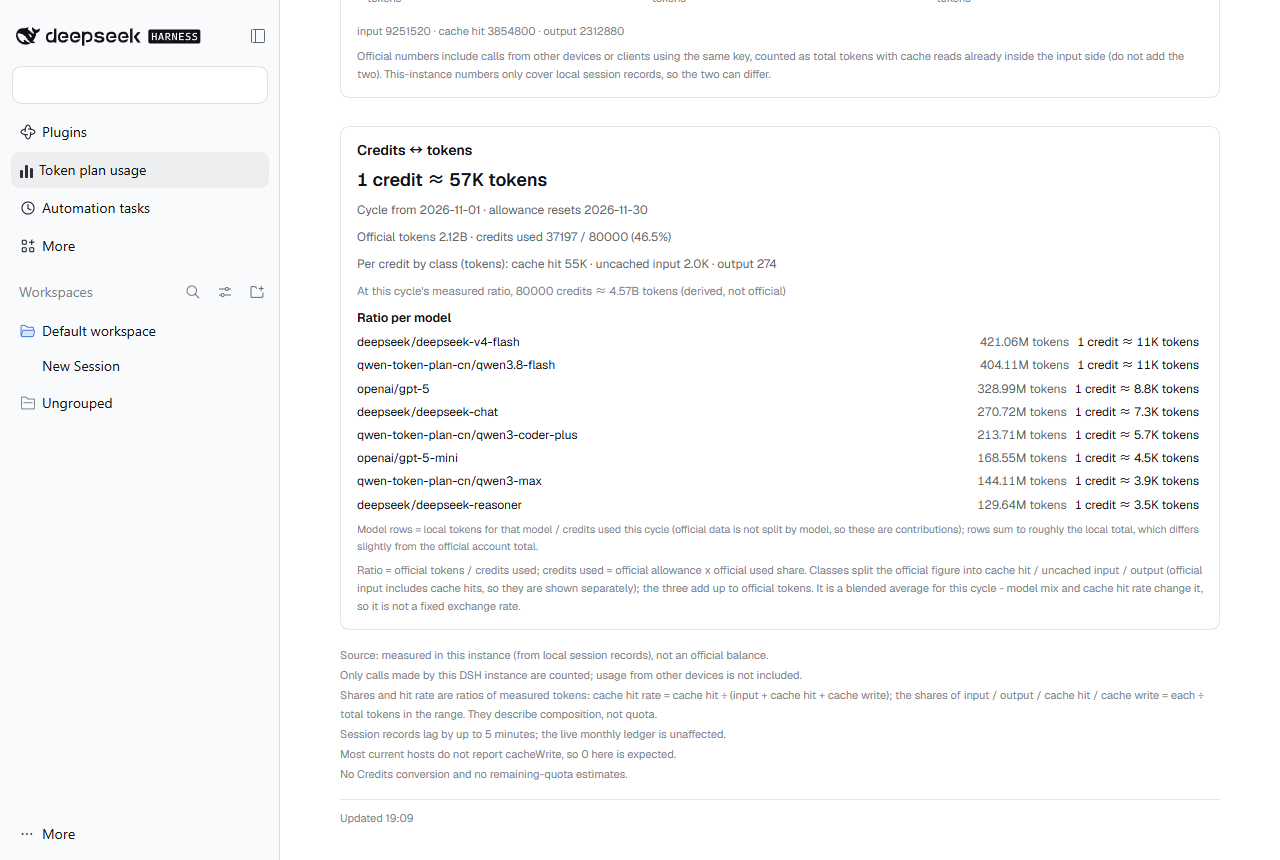
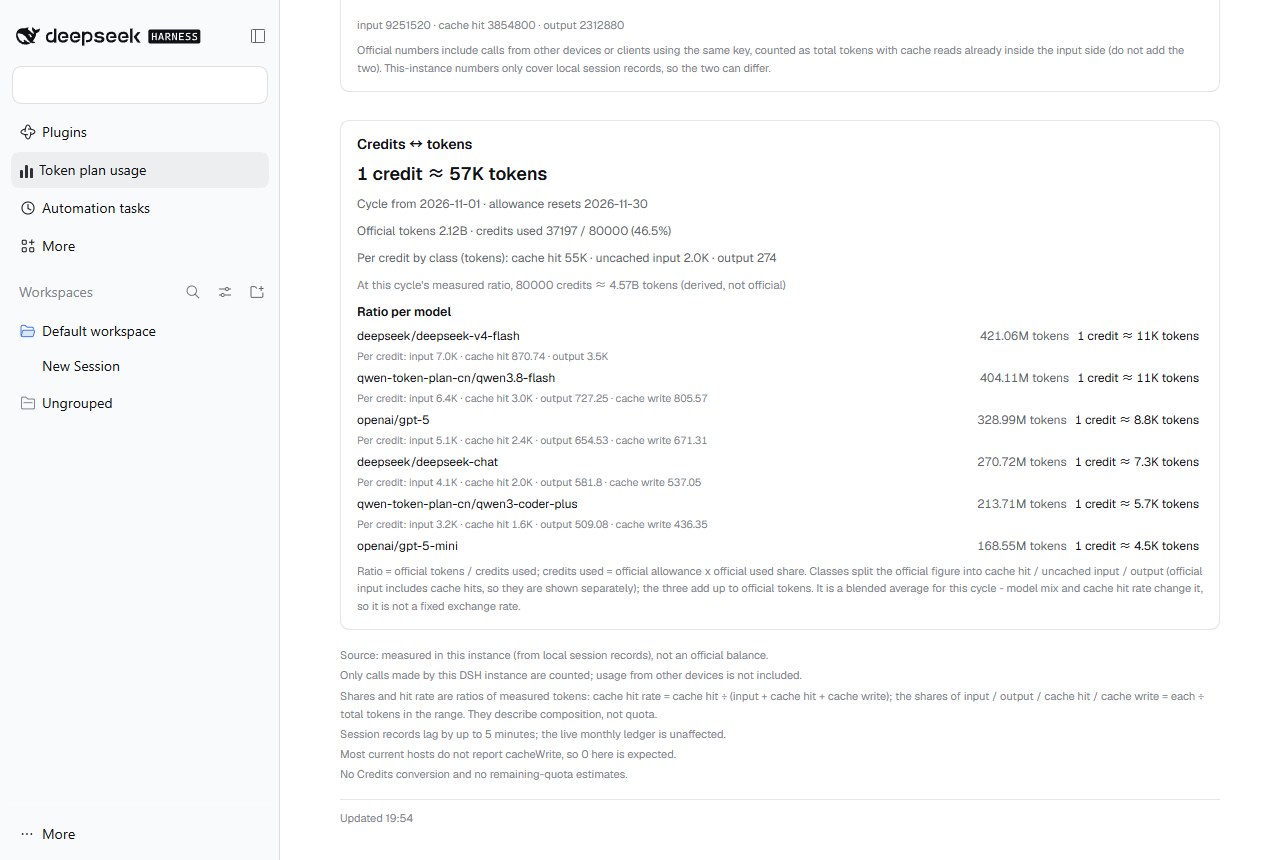
docs(usage): 016 说明、契约与重拍的中英截图
README 中英各补一段：每 Credit 对应该模型的输入/缓存命中/输出各多少 tokens，以及三类相加等于该行总量；CHANGELOG 记 016 并回填测试计数（954→971 / 1080→1159 / 497→526）；INTERFACE 补 §6 实施记录（符号名定位、两处偏差、未覆盖项），只写符号名不写行号，避免 check-refs 的 file:line 禁令。截图脚本给每行补 classes 夹具、场景 ⑯ 改为 8 行逐行逐字比对第二行文本并以 scrollHeight>clientHeight>252 作为内滚硬证据，重拍两张 1280×860 图。

Changed region(s): [[0.2812, 0.1512, 0.9375, 0.6651], [0.2812, 0.0, 0.9375, 0.0907], [0.25, 0.786, 0.9375, 0.8163]]

diff --git a/specs/016-per-model-classes/INTERFACE.md b/specs/016-per-model-classes/INTERFACE.md
@@ -1,0 +1,124 @@
+# 016 接口契约（唯一实现真值）
+
+## 1 路由与配置
+
+不变：`GET /token-plan-quota/usage-credits?fresh=1`（同源、只 GET、非 GET 405）。**不新增**路由、查询参数、配置键、出站主机、第三方依赖。
+
+## 2 响应新增字段（仅 `available: true` 时存在）
+
+```js
+ratio.models: [{
+  id, provider, model, tokens, calls, tokensPerCredit,   // 015 已有，全部不变
+  classes: {                                             // 016 新增
+    input:      { tokens: number, perCredit: number },   // 本机 totals.input（不含缓存命中）
+    cacheRead:  { tokens: number, perCredit: number },   // 本机 totals.cacheRead
+    output:     { tokens: number, perCredit: number },   // 本机 totals.output
+    cacheWrite: { tokens: number, perCredit: number },   // 本机 totals.cacheWrite
+  },
+}]
+```
+
+- `perCredit = tokens / credits.used`，**不取整、不 toFixed**（与 014/015 一致）。
+- 取数：`tokens` 直接取本机 `totals.x`，缺字段 / 非有限 / 负数一律按 0（沿用 `finiteCount` 语义），绝不产出 NaN/Infinity。
+- **恒等**：同一行 `input.tokens + cacheRead.tokens + output.tokens + cacheWrite.tokens === tokens`（本机口径定义如此，用例必须断言）。
+- 行过滤条件不变（015）：`totals.tokens` 有限且 > 0 才进列表；保序、不 sort、不 reverse。
+- `classes` 恒为对象（四键齐全），即使某类为 0；客户端只做展示层省略。
+- 旧宿主无此字段；客户端必须能降级（§3.3）。
+
+## 3 客户端契约
+
+### 3.1 COPY：新增 2 键、改 1 键（zh 151→153，en 同步）
+
+zh：
+
+- `usageCreditsModelClasses`: `每 Credit：输入 {input} · 缓存命中 {cacheRead} · 输出 {output}`
+- `usageCreditsModelClassWrite`: ` · 缓存写入 {tokens}`
+- `usageCreditsModelsNote`（改写）: `模型行 = 本机该模型 tokens ÷ 本账期已用 Credits（官方不按模型拆分，这是贡献值）；每行的输入 / 缓存命中 / 输出各自是「该模型这一类 tokens ÷ 同一个账号级分母」，三者相加等于该行总量。各行相加约等于本机总量，与账号级官方总量有少量差额。`
+
+en：
+
+- `usageCreditsModelClasses`: `Per credit: input {input} · cache hit {cacheRead} · output {output}`
+- `usageCreditsModelClassWrite`: ` · cache write {tokens}`
+- `usageCreditsModelsNote`: `Model rows = local tokens for that model / credits used this cycle (official data is not split by model, so these are contributions); each row's input / cache hit / output is that class's tokens for the model over the same account-level denominator, and the three add up to the row total. Rows sum to roughly the local total, which differs slightly from the official account total.`
+
+复用键：`usageSplitInput`（zh 输入 / en input）**不用于此处**——模板已内联标签；`usageSplitCacheWrite` 也不用于此处（模板内联「缓存写入」）。en 模板全 ASCII。
+
+### 3.2 模型行结构
+
+每行仍是 `div.tpq-usage-credits-model[data-usage-credits-model][data-model]`，children 从 3 个 span 变成 3 span + 可选第二行：
+
+```
+span.tpq-usage-credits-model-name      （015 已有）
+span.tpq-usage-credits-model-tokens    （015 已有）
+span.tpq-usage-credits-model-ratio     （015 已有）
+span.tpq-usage-credits-model-classes   （016 新增，第二行）
+  data-usage-credits-model-classes="1"
+```
+
+### 3.3 第二行文本与渲染条件
+
+- 文本：`copy.usageCreditsModelClasses` 的 `{input}`/`{cacheRead}`/`{output}` 依次替换成
+  `formatTokens(classes.input.perCredit)` / `formatTokens(classes.cacheRead.perCredit)` / `formatTokens(classes.output.perCredit)`；
+  当 `classes.cacheWrite.perCredit` 是有限数且 **> 0** 时，追加 `copy.usageCreditsModelClassWrite` 把 `{tokens}` 替换成 `formatTokens(cacheWrite.perCredit)`。
+- 渲染条件：`classes` 是对象，且 `input/cacheRead/output` 三个 `perCredit` 都是有限数；否则**该行第二行不渲染**（第一行照旧）。缺 `classes`（旧宿主）走同一分支。
+- 0 是真实值：某类 tokens 为 0 时照实渲染 `0`，只有「缺字段 / 非有限」才整行省略。
+- 本函数不产出 `%`（012 白名单段之外不得出现百分号字面量）。
+- 示例（zh，实际数据，used = 38280.2997）：
+  `每 Credit：输入 1,341 · 缓存命中 3.3万 · 输出 133`（formatTokens 的口径：万/亿 + 千分位）。
+
+### 3.4 CSS
+
+```css
+.tpq-usage-credits-model{display:flex;flex-wrap:wrap;gap:2px 8px;align-items:baseline;padding:2px 0;font-size:12px}
+.tpq-usage-credits-model-classes{flex:0 0 100%;font-size:10.5px;line-height:1.6;overflow-wrap:anywhere;
+  color:var(--dsw-alias-label-tertiary,inherit);font-variant-numeric:lining-nums tabular-nums}
+```
+
+- 只加 `flex-wrap`/`gap` 与一条新规则；252px 定高、`overflow-y:auto`、thin、contain、8px thumb、`:focus-visible` 等 015 契约不变。
+- 行变成两行后，8 行模型块高度 > 252px，截图里**内滚会真正触发**（scrollHeight > clientHeight 可断言）。
+
+## 4 守卫（test/guards.mjs 第 16 节）
+
+至少覆盖：宿主 `creditsModelRatios` 段含 `classes`、四键名、无 `round/floor/ceil/toFixed`、仍以 `tokens <= 0` 过滤；
+客户端含 `"data-usage-credits-model-classes": "1"`、`usageCreditsModelClasses`/`usageCreditsModelClassWrite` 模板替换、
+第二行段剥注释后无 `%` 字面量；COPY 计数 153/153 且 zh 有汉字、en 无 CJK；CSS 两条规则；README/CHANGELOG/specs 016 四件。
+
+## 5 降级
+
+| 输入 | 行为 |
+|---|---|
+| 旧宿主（无 classes） | 模型行第一行照旧，无第二行，不报错 |
+| `classes` 缺某键 | 该行第二行不渲染 |
+| 某类 tokens = 0 | 照实显示 0（cacheWrite 为 0 时不追加第四段） |
+| `models: []` | 整块不渲染（015 不变） |
+
+## 6 实施记录（015 之后补写）
+
+落地位置（按符号名定位，不写行号——行号会漂）：
+
+| 位置 | 内容 |
+|---|---|
+| `lib/index.js` 的 `creditsModelRatios` | 每行 `classes` 在同一函数内组装：四类 `Math.max(0, finiteCount(item?.totals?.x) ?? 0)`，`perCredit = x / u` |
+| `lib/index.js` 的 `__internals` | `creditsModelRatios` 已暴露（守卫可直接打纯函数） |
+| `lib/client.js` 的 `usageCreditsModelClassesLine` | 第二行渲染函数（同时进 `__internals`） |
+| `lib/client.js` 的 CSS | `.tpq-usage-credits-model` 加 `flex-wrap:wrap;gap:2px 8px`，新增 `.tpq-usage-credits-model-classes` |
+| `test/host.mjs` | 016 宿主用例块（恒等 / 0 兜底 / 不取整 / 真实数据 / compose 透传） |
+| `test/client.mjs` | 016 客户端用例（+79 条：钩子 / 中文英文逐字 / 降级矩阵 / cacheWrite 条件 / DOM 第二行） |
+| `test/guards.mjs` | 第 16 节静态矩阵 29 条；011/012/015 三处 COPY 计数 151→153 |
+
+与契约的偏差（都更严，不放宽）：
+
+1. **真实数据用例的容差不为零**：宿主的真实读数只以两位小数 perCredit 交给我方，因此按它反推整数 tokens，
+   三类断言用 `±0.01`、行总量用 `±0.02`（`34776.38` vs 契约示例 `34776.37`，差在两位小数舍入）。
+   合成数据用例仍是精确等值（`=== 1 / 3` 这类全精度断言）。
+2. **`null` / `undefined` 视为缺字段**：客户端 `perCreditOf` 先拦 `null`/`undefined` 再 `Number()`，
+   否则 `Number(null) === 0` 会印出一个假 0；`classes` 为数组时按非对象拒绝（契约只写"是对象"，
+   数组是同族误传，防御性拒绝，`route` 上不会出现）。
+3. **015 的两条既有断言被改**：T015 的脚注逐字断言（脚注按 §3.1 改写）与 T015 的 CSS 正则
+   （`display:flex;gap:8px` → `display:flex;flex-wrap:wrap;gap:2px 8px`）。这是 016 改变契约的必然结果，
+   不是放宽：两条都换成了更具体的形状断言。
+4. **未覆盖项（如实记）**：SC-002 的「五行模型汇总」只有首行用真实账号数据（qwen3.8-flash），
+   其余四行用合成数据；不伪造真实明细。
+
+计数（最后一次编辑之后实跑）：宿主 954→**971**、客户端 1080→**1159**、guards 497→**526**（第 16 节 29 条）。
+

diff --git a/specs/016-per-model-classes/spec.md b/specs/016-per-model-classes/spec.md
@@ -1,0 +1,33 @@
+# 016 每个模型的分项比值（spec）
+
+**需求（用户 m05460）**：「这个各自的比值也转换一下，我想看到对应的输入，输出，命中缓存的比值，每1credit是对应不同的模型的多少输入，输出或命中缓存的token」。
+
+014 给出了账号级总比值与官方口径三类分项比值，015 给出了每个模型的**总量**比值；016 把两者合成：**每个模型各自再拆成三类**，回答「1 Credit 对应该模型多少输入 / 多少缓存命中 / 多少输出 tokens」。
+
+## 状态
+
+- 前置：014（比例块）、015（分项 + 按模型行）已入库。
+- 范围：只扩 015 已有的 `GET /token-plan-quota/usage-credits` 响应与客户端模型行；**不新增**路由、查询参数、配置键、出站主机、第三方依赖。
+- 宿主数据来源不变：本机 `buildUsageSnapshot({from: cycle.from, to: cycle.to})` 的 `models[]`（官方接口不提供模型维度，这一点 015 已定，016 不改）。
+
+## 功能需求
+
+- **FR-001 模型行带三类分子**：`ratio.models[i]` 增加 `classes: { input, cacheRead, output, cacheWrite }`，每项 `{ tokens, perCredit }`。
+- **FR-002 口径**：`classes.x.tokens` 直接取本机该模型的 `totals.x`；`perCredit = tokens ÷ credits.used`，**不取整、不 toFixed**（与 014/015 一致）。
+- **FR-003 输入含义**：本机 `input` **不含**缓存命中（与官方口径相反，014 已实证），因此模型行的「输入」就是未命中输入，文案用「输入」（复用 012 的 `usageSplitInput`），不加「未命中」前缀。
+- **FR-004 恒等**：同一模型 `input + cacheRead + output + cacheWrite === tokens`（本机口径），故三类 perCredit 相加 = 该行 `tokensPerCredit`。
+- **FR-005 0 与缺失**：本机缺字段、非有限、负数一律按 0 计；四类全 0 的行本就不会出现（015 已按 `tokens > 0` 过滤）。
+- **FR-006 渲染**：模型行第二行显示「每 Credit：输入 X · 缓存命中 Y · 输出 Z」，`cacheWrite.perCredit > 0` 时追加「· 缓存写入 W」；三类任一 `perCredit` 非有限 → **该行分项不渲染**（第一行保留）；0 是真实值，照实显示 `0`。
+- **FR-007 双语**：新增 COPY 键中英各 2 个模板（151→153）；「缓存写入」沿用 012 的 `usageSplitCacheWrite`。zh 用汉字，en 全 ASCII。
+- **FR-008 只报实测**：所有数都是本机实测 tokens ÷ 已用 Credits，不折算 Credits、不派生配额比例；模型块脚注补一句「模型行的分母是本账期已用 Credits（账号级），不是该模型自己的额度」。
+- **FR-009 宿主零猜测**：不新增上游请求；官方成功、本机失败时 `models: []`（015 既有降级不变）。
+- **FR-010 可滚**：行变成两行后 252px 定高会真正触发内滚，键盘可滚、焦点环、细滚动条等 015 既有契约不变。
+
+## 成功标准
+
+- **SC-001** 实际数据（2026-11-14，used = 38280.2997）：`qwen-token-plan-cn/qwen3.8-flash` 的三类 perCredit 为
+  输入 1,341.40 / 缓存命中 33,302.19 / 输出 132.79，相加 34,776.37 = 该行 `tokensPerCredit`。
+- **SC-002** 五个模型行的三类 tokens 分别相加等于本机区间 totals（input 74,846,821 / cacheRead 2,269,964,800 / output 10,866,708）。
+- **SC-003** 模型行不出现 `%`、不出现 `Credits 剩余`、不出现 NaN/Infinity。
+- **SC-004** 缺 `classes` 的旧宿主响应下，模型行仍渲染（只是没有第二行），不报错、不白屏。
+- **SC-005** 截图（中英各一张）在同一屏内看到三类比值，且模型块内滚生效（8 行两行制 > 252px）。

diff --git a/README.md b/README.md
@@ -248,7 +248,10 @@ dsh plugin --profile web add ./dsh-token-plan-quota        # 本地目录
   三者相加等于官方 tokens（直接拿官方 input 当未命中输入，三项相加会超过总量）。每个模型各自的比值 =
   **本机该模型 tokens ÷ 本账期已用 Credits**，这是**贡献口径**：官方不按模型拆分 Credits，也没有公开的模型单价，
   按 tokens 比例去分摊只会让每行都等于总比值（假精确）。脚注因此写明「官方不按模型拆分」与
-  「各行相加约等于本机总量，与账号级官方总量有少量差额」。分项或模型行缺失时只少渲染那一块，不写 0、也不写 `—`。
+  「各行相加约等于本机总量，与账号级官方总量有少量差额」。模型行再往下拆一层：**该模型的输入 / 缓存命中 /
+  输出各自除以同一个账号级分母**，直接回答「1 Credit 对应该模型多少输入、多少缓存命中、多少输出 tokens」，
+  三者相加等于该行总量；分母仍是本账期已用 Credits（账号级），不是该模型自己的额度。
+  分项或模型行缺失时只少渲染那一块，不写 0、也不写 `—`。
 - 2D / 3D 共用**同一个线性比例函数**：3D 只是把同一根柱子画成 SVG 等轴投影的三面（顶 / 正 / 侧），
   固定角度、无透视、无近大远小，柱高与数值严格线性——换画法不会让柱子看起来比数据高。
 - **把鼠标放到任意一根柱上**就能看到该柱的明细：日期（周桶写作 `起 – 止`）与该桶 tokens 总量，
@@ -519,16 +522,16 @@ Key 引用名可在 `sources` 条目里用 `bearerRef` / `cookieRef` 覆盖。
 
 ```bash
 npm run check                      # 下面七步一次跑完
-node test/host.mjs                 # 954 项，离线
-node test/client.mjs               # 1080 项，假 React/DOM/fetch
-node test/guards.mjs               # 497 项，门禁自身的行为矩阵（应报 / 应放行）
+node test/host.mjs                 # 971 项，离线
+node test/client.mjs               # 1159 项，假 React/DOM/fetch
+node test/guards.mjs               # 526 项，门禁自身的行为矩阵（应报 / 应放行）
 node scripts/check-manifest.mjs    # 清单自检（安装性、出站主机、许可证、零依赖）
 node scripts/check-docs.mjs        # README 的可核实声明必须与代码一致
 node scripts/check-refs.mjs        # 活文档里不得出现「文件:行号」引用
 node scripts/check-submission.mjs  # 插件目录站投稿条目的自检
 ```
 
-`check-docs` 不是装饰：它把「DEFAULTS 25 个键、配置表 26 行、8 个数据源、声明 8 个出站主机、测试 954/1080 项 + guards 497 项」这些写在 README
+`check-docs` 不是装饰：它把「DEFAULTS 25 个键、配置表 26 行、8 个数据源、声明 8 个出站主机、测试 971/1159 项 + guards 526 项」这些写在 README
 里的数字拿去和代码与实跑结果对，**数字漂了就 CI 红**（已用反向用例验证它真的会失败）。
 
 测试跨平台（临时目录取 `os.tmpdir()`，不依赖真实 `~/.dsh`），CI 跑 node 20/22 × ubuntu/windows/macos，

diff --git a/README.en.md b/README.en.md
@@ -304,8 +304,11 @@ conversation main area and keeps the sidebar; `Esc` or the `✕` in the title ro
   local tokens for that model / credits used this cycle, which is a **contribution** figure: official data is not split
   by model and no per-model price is published, and splitting credits by token share would make every row equal the
   overall ratio (false precision). The footnote therefore states that official data is not split by model and that rows
-  sum to roughly the local total, which differs slightly from the official account total. When classes or model rows are
-  missing, only that part is skipped - never a 0, never a dash.
+  sum to roughly the local total, which differs slightly from the official account total. Each model row then splits
+  again: for that model, input / cache hit / output tokens each divided by the same account-level denominator, so the
+  screen answers "one credit buys this model this many input / cache-hit / output tokens"; the three add up to the row
+  total, and the denominator is still the cycle credits used (account-level), not a per-model allowance. When classes
+  or model rows are missing, only that part is skipped - never a 0, never a dash.
 - 2D and 3D share **one linear scale function**: 3D only draws the same bar as an isometric SVG with three faces
   (top / front / side), fixed angle, no perspective and no foreshortening, so switching the view cannot make a bar
   look taller than its number.
@@ -615,9 +618,9 @@ see [`SECURITY.md`](https://github.com/xinghe-1018/dsh-token-plan-quota/blob/mai
 
 ```bash
 npm run check                       # all seven steps below
-node test/host.mjs                  # 954 assertions, offline
-node test/client.mjs                # 1080 assertions, fake React/DOM/fetch
-node test/guards.mjs                # 497 assertions: behaviour matrices of the gates themselves
+node test/host.mjs                  # 971 assertions, offline
+node test/client.mjs                # 1159 assertions, fake React/DOM/fetch
+node test/guards.mjs                # 526 assertions: behaviour matrices of the gates themselves
 node scripts/check-manifest.mjs     # manifest self-check (installability, outbound hosts, license, zero deps)
 node scripts/check-docs.mjs         # every verifiable claim in the READMEs must match the code
 node scripts/check-refs.mjs         # living docs must not cite "file:line" locations
@@ -625,7 +628,7 @@ node scripts/check-submission.mjs   # directory-submission entry self-check
 ```
 
 `check-docs` is not decoration: it takes the numbers written in these READMEs - "25 DEFAULTS keys, a 26-row
-config table, 8 sources, 8 declared outbound hosts, 954/1080 tests plus 497 guards assertions" - and checks them against
+config table, 8 sources, 8 declared outbound hosts, 971/1159 tests plus 526 guards assertions" - and checks them against
 the code and a real test run, so a drifting number turns CI red (verified with a deliberately broken copy that it does
 fail).
 

diff --git a/specs/016-per-model-classes/plan.md b/specs/016-per-model-classes/plan.md
@@ -1,0 +1,42 @@
+# 016 计划
+
+## 1 为什么这么做
+
+- 014 的分项用**官方口径**（官方 accounts tokens 含其他设备），015 的模型行用**本机口径**（官方不按模型拆分）。
+  两套分子不能混：混了模型行相加会不等于任何一边的总量。016 只在 015 的模型行内部再拆，分子仍是本机。
+- 分母只有一个可用真值：本账期**账号级已用 Credits**（官方每账期一个读数）。所以每行都是「该模型贡献的 X 类 tokens ÷ 账号已用 Credits」，
+  不是「该模型自己花了多少 Credits」——后者官方不存在，按比例分摊会让每行恒等于总比值（015 已拒绝的假精确）。
+
+## 2 分工
+
+| 层 | 文件 | 内容 |
+|---|---|---|
+| 宿主 | `lib/index.js` | `creditsModelRatios` 每行加 `classes`（4 类，各 `{tokens, perCredit}`）；`__internals` 不变（函数已在） |
+| 宿主测试 | `test/host.mjs` | 恒等、0 兜底、非法行过滤、缺字段、used=0 短路、不取整 |
+| 客户端 | `lib/client.js` | COPY +1 键、模型行第二行、CSS 一行、脚注改写 |
+| 客户端测试 | `test/client.mjs` | 三类渲染、cacheWrite 追加条件、缺字段不渲染第二行、无 %、双语 |
+| 静态守卫 | `test/guards.mjs` | 第 16 节静态矩阵 |
+| 截图/文档 | `scripts/shots/*`、`README*`、`CHANGELOG.md` | fixture 扩 classes、场景 ⑯ 断言、重拍两张图 |
+
+## 3 失败模式
+
+| 情况 | 行为 |
+|---|---|
+| 本机某模型缺 `cacheRead` | 该类 tokens 记 0，仍渲染（0 是真实值，不是缺失） |
+| 三类任一 perCredit 非有限 | 该行第二行不渲染，第一行保留 |
+| 旧宿主（无 classes） | 客户端只渲染第一行，不报错（FR-006/SC-004） |
+| `credits.used` ≤ 0 | 015 已提前短路成 `no-token-data`，016 不产生比值 |
+| 模型极多 | 252px 定高内滚，键盘可达 |
+| `cacheWrite` 恒 0 | 不渲染第四段，行更短 |
+
+## 4 不做什么
+
+- 不做「每模型 Credits 分摊」；不做「每模型配额百分比」；不请求官方模型维度（不存在）。
+- 不改 014 的账号级三类分项，也不改 015 的 `tokensPerCredit` 语义。
+- 不加新路由/参数/配置键/主机/依赖。
+
+## 5 验收
+
+- `node test/host.mjs`、`node test/client.mjs`、`node test/guards.mjs` 全绿；
+- `npm run check` 七步（host/client/guards/manifest/docs/refs/submission）全绿；
+- 中英截图各一张，模型块内滚触发（scrollHeight > clientHeight）。

diff --git a/CHANGELOG.md b/CHANGELOG.md
@@ -10,6 +10,15 @@ All notable changes to this project are documented here. The format follows
 
 ### Added
 
+- **每个模型的分项比值（016）**：015 的模型行再拆一层——**该模型的输入 / 缓存命中 / 输出各自除以同一个账号级分母**
+  （本账期已用 Credits），直接回答「1 Credit 对应该模型多少输入、多少缓存命中、多少输出 tokens」。四类 tokens 直接取本机
+  该模型 `totals`，`perCredit = tokens ÷ credits.used` 不取整，行内恒等 `input + cacheRead + output + cacheWrite === tokens`；
+  `cacheWrite` 为 0 时不显示第四段。缺 `classes`（旧宿主）或某类非有限时只少渲染第二行、第一行保留，不拿 0 顶替、不写 —。
+  口径不变：分子是本机、分母是账号级已用 Credits（贡献值），官方不按模型拆分，也不请求不存在的模型维度。
+  客户端 COPY 151→153（`usageCreditsModelClasses` / `usageCreditsModelClassWrite`，脚注补分母说明），模型块两行制后
+  252px 定高真正触发内滚（细滚动条、`Tab` 可聚焦）。零新路由、零新配置键、零新出站主机、零第三方依赖。
+  测试：宿主 954→971、客户端 1080→1159、guards 497→526（第 16 节静态矩阵 29 条）。
+  方案见 `specs/016-per-model-classes/`，接口契约见该目录 `INTERFACE.md`。
 - **Credits 换算细化：分项比值与每个模型各自的比值（015）**：014 的换算块再往下拆两层。
   **分项**只取官方口径，把官方 tokens 拆成「缓存命中 / 未命中输入 / 输出」三类，各自给 tokens/Credit：
   官方 input 含缓存命中，所以 `uncachedInput = max(0, input − cacheRead)` 单列，三者相加仍等于官方 tokens；

diff --git a/specs/016-per-model-classes/tasks.md b/specs/016-per-model-classes/tasks.md
@@ -1,0 +1,11 @@
+# 016 任务
+
+- [x] T001 宿主：`creditsModelRatios` 每行加 `classes`（input/cacheRead/output/cacheWrite 各 `{tokens, perCredit}`）
+- [x] T002 宿主测试：恒等（四类相加 = tokens）、0 兜底、非法行过滤、缺字段、不取整
+- [x] T003 客户端：COPY +1 键（`usageCreditsModelClasses`）、模型行第二行、`data-usage-credits-model-classes` 钩子
+- [x] T004 客户端：CSS（行内换行 + 第二行字号/颜色）、脚注补分母口径句
+- [x] T005 客户端测试：三类渲染、cacheWrite 追加条件、缺 classes 不渲染第二行、无 %、中英逐字
+- [x] T006 静态守卫第 16 节（宿主/DOM/CSS/COPY/文档矩阵）
+- [x] T007 截图：fixture 扩 classes、场景 ⑯ 断言、重拍 zh/en 两张
+- [x] T008 文档：README 中英各一条、CHANGELOG、INTERFACE §6 实施记录、tasks 置 ✅
+- [x] T009 提交与门禁：feat/test/docs 三个提交，提交后七步全绿
